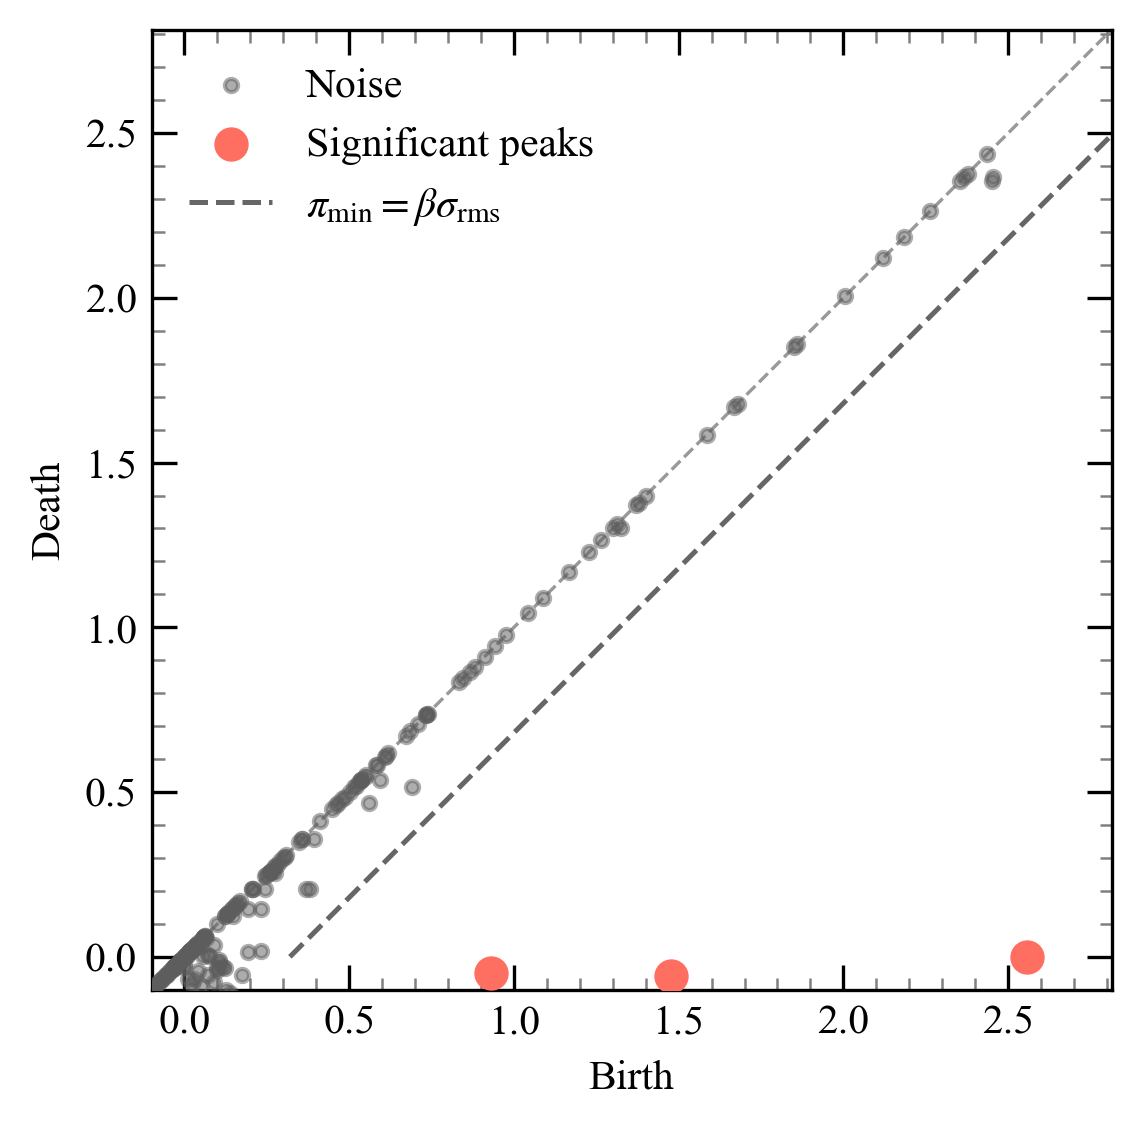
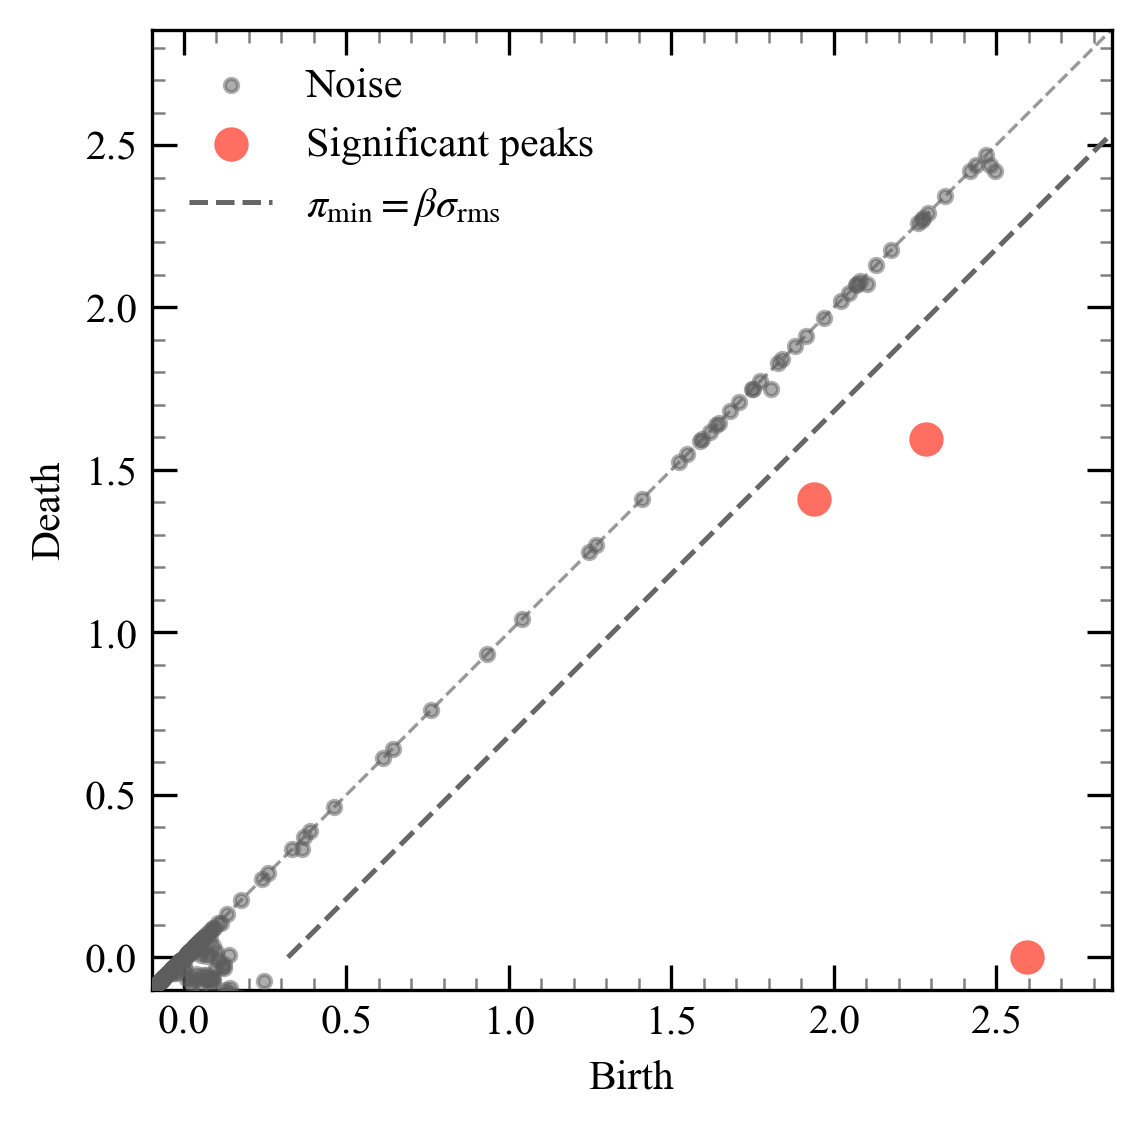
fix: updated peak detection description

diff --git a/packages/pre-print/ms.tex b/packages/pre-print/ms.tex
@@ -1,5 +1,5 @@
 % ============================================================================
-%  Persistent Homology for Parameter-Free Spectral Line Decomposition
+%  Persistent Homology for Parameter-Free Radio Spectral Line Decomposition
 %  AASTeX v6.3.1 — ApJ pre-print
 % ============================================================================
 \documentclass[twocolumn,twocolappendix]{aastex631}
@@ -22,13 +22,13 @@
 \newcommand{\aicc}{\mathrm{AICc}}
 
 % --- Metadata ---------------------------------------------------------------
-\shorttitle{Persistent Homology for Spectral Line Decomposition}
+\shorttitle{Persistent Homology for Radio Spectral Line Decomposition}
 \shortauthors{Vera-Ciro}
 
 % ============================================================================
 \begin{document}
 
-\title{Persistent Homology for Parameter-Free Spectral Line Decomposition}
+\title{Persistent Homology for Parameter-Free Radio Spectral Line Decomposition}
 
 \author{Carlos Vera-Ciro}
 \affiliation{Independent Researcher}
@@ -109,10 +109,14 @@ remains relatively niche in astronomy, with representative examples in
 cosmic-web topology \citep{Xu2019} and cosmic-shear statistics
 \citep{Heydenreich2022}; closely related structure-finding tools such as
 \textsc{SUBFIND} \citep{Springel2001} have long been standard in simulations.
+The most direct precedent is \citet{Shaw2025}, who use persistent homology
+for source detection and deblending in 2D astronomical images.
 To the best of my knowledge, this is the first application
-of persistent homology to spectral line decomposition.  The algorithm has a
+of persistent homology to 1D spectral line decomposition.  The algorithm has a
 single free parameter~$\beta$ (the persistence threshold in units of noise),
-requires no expensive training, and runs in $O(n \log n)$ time.  It is shown that it
+requires no expensive training, and runs in $O(n \log n)$ time.  \phspectra\
+detects emission peaks only; absorption features can be recovered by
+inverting the spectrum and applying the same procedure.  It is shown that it
 achieves high accuracy on synthetic data while matching or exceeding
 \gausspyp\ on real GRS spectra without training.  The method is presented in
 \S\ref{sec:method}, evaluated on synthetic and real ${}^{13}$CO spectra in
@@ -131,14 +135,19 @@ achieves high accuracy on synthetic data while matching or exceeding
   \caption{%
     Intuition for the peak-ranking step that underpins the decomposition.  The
     descending water-level interpretation of 0-dimensional persistent
-    homology is applied to a synthetic three-peak spectrum.  As the threshold
-    $t$ (dashed line) decreases, connected components are born at local maxima
-    and die when they merge into an older component.  Red dots mark peak births;
-    annotations show the final persistence $\pi = b - d$.  \emph{Top left}:
-    $t$ above all peaks (empty upper-level set).  \emph{Top right}: peak~A
-    ($\pi = 2.58$) is born as the global maximum.  \emph{Bottom left}: peak~B
-    ($\pi = 1.20$) appears as a second island.  \emph{Bottom right}: peak~C
-    ($\pi = 0.73$) dies when its island merges with~A's.
+    homology is applied to a synthetic nested spectrum: a broad parent with
+    two narrow children embedded on its flanks, representing the
+    blended-line case typical of radio spectra.  As the threshold $t$
+    (dashed line) decreases, connected components are born at local maxima
+    and die when they merge into an older component.  Red dots mark peak
+    births; annotations show the final persistence $\pi = b - d$.
+    \emph{Top left}: $t$ above all peaks (empty upper-level set).
+    \emph{Top right}: the broad parent ($\pi = 2.60$) is born as the global
+    maximum.  \emph{Bottom left}: both children ($\pi = 0.69$ at channel~82
+    and $\pi = 0.53$ at channel~118) appear as sub-islands sitting inside
+    the parent's territory.  \emph{Bottom right}: the higher-saddle child
+    (channel~82) merges back into the parent and dies; the other child
+    remains as a separate island.
     \label{fig:waterlevel}}
 \end{figure*}
 
@@ -221,15 +230,22 @@ amplitudes and widths.  A faint broad component and a bright narrow component
 are treated on equal footing; no special tuning is required to accommodate
 both.
 
-Figure~\ref{fig:waterlevel} uses the descending water-level interpretation on
-a synthetic three-peak spectrum.  As the water level (threshold) drops past
-each local maximum, a new connected component (``island'') is born; when two
-islands merge, the younger one dies and its persistence is recorded.  The
-three real peaks have persistence values of $\pi = 2.58$, $1.20$, and $0.73$
---- well separated from the near-zero persistence of noise fluctuations.  In
-practice these values are compared against the minimum persistence
-$\pmin = \beta\,\srms$: peaks with $\pi > \pmin$ are kept as Gaussian
-candidates, while lower-persistence features are rejected as noise.
+Figure~\ref{fig:waterlevel} uses the descending water-level interpretation
+on a synthetic nested spectrum: a broad parent with two narrow children
+embedded on its flanks, representing the blended-line case typical of radio
+spectra.  As the water level drops past the parent's peak, a single broad
+island is born; each child subsequently crosses the water level and appears
+as a sub-island sitting topologically inside the parent's territory.  When
+the water reaches the saddle separating a child from the parent, the two
+islands merge and the younger component --- the child --- dies at the
+saddle value.  Its persistence $\pi = b - d$ is the height drop between the
+child's local maximum and that saddle, so a narrow child sitting on top of
+a broad parent receives its own birth--death pair and is ranked against the
+same $\pmin$ cut as any isolated peak; no explicit deblending step is
+required.  The three real peaks in the figure have persistence values
+$\pi = 2.60$, $0.69$, and $0.53$, well above the near-zero persistence of
+noise fluctuations and above the default $\pmin = \beta\,\srms$ cut with
+$\beta = 3.5$, so all three are kept as Gaussian candidates.
 
 % ---------------------------------------------------------------------------
 % §2.2  From persistence to Gaussian candidates
@@ -246,6 +262,13 @@ final RMS is computed as $\srms^2 = \sum_i f_i^2/N_{\mathrm{sur}}$, where the su
 runs over the $N_{\mathrm{sur}}$ surviving channels.  This procedure avoids biasing the noise estimate with
 real emission and provides the noise scale used to set the persistence
 threshold $\pmin = \beta\,\srms$.
+
+The upper-level set formulation assumes a flat, baseline-subtracted
+spectrum: a sloped or broken continuum would shift raw peak heights and
+saddles non-uniformly and bias the persistence ranking.  Radio spectral
+lines typically sit on a flat baseline after standard calibration, so this
+is automatic in the intended use case; spectra with a non-negligible
+continuum component should have it subtracted prior to running \phspectra.
 
 Each peak surviving this threshold becomes an initial Gaussian guess.  The
 amplitude is taken directly from the peak height, $a_0 = f(\mathrm{index})$,

diff --git a/packages/benchmarks/src/benchmarks/commands/persistence_plot.py b/packages/benchmarks/src/benchmarks/commands/persistence_plot.py
@@ -36,10 +36,14 @@ class PersistenceEvent:
 
 
 def _synthetic_signal(n: int = 200) -> npt.NDArray[np.float64]:
-    """Build a synthetic three-peak signal with additive Gaussian noise.
+    """Build a synthetic nested-peak signal with additive Gaussian noise.
 
-    The signal contains three Gaussians (amplitudes 2.5, 1.4, 0.7) at
-    channels 60, 100, 140, plus i.i.d. noise with sigma = 0.08.
+    The signal contains a broad parent Gaussian (amplitude 2.5, sigma 12
+    at channel 100) and two narrow children (amplitudes 1.5 and 1.0,
+    sigma 2.5) sitting on its flanks at channels 82 and 118.  Both
+    children survive the default persistence cut and illustrate the
+    embedded / broad-plus-narrow superposition cases.  Additive
+    i.i.d. Gaussian noise has sigma = 0.08.
 
     Parameters
     ----------
@@ -53,9 +57,9 @@ def _synthetic_signal(n: int = 200) -> npt.NDArray[np.float64]:
     """
     x = np.arange(n, dtype=np.float64)
     signal = (
-        2.5 * np.exp(-0.5 * ((x - 60.0) / 8.0) ** 2)
-        + 1.4 * np.exp(-0.5 * ((x - 100.0) / 5.0) ** 2)
-        + 0.7 * np.exp(-0.5 * ((x - 140.0) / 10.0) ** 2)
+        2.5 * np.exp(-0.5 * ((x - 100.0) / 12.0) ** 2)
+        + 1.5 * np.exp(-0.5 * ((x - 82.0) / 2.5) ** 2)
+        + 1.0 * np.exp(-0.5 * ((x - 118.0) / 2.5) ** 2)
     )
     rng = np.random.default_rng(42)
     return signal + rng.normal(0, 0.08, n)
@@ -150,9 +154,11 @@ def _plot_water_levels(
 ) -> Figure:
     """Build the four-panel descending water-level illustration.
 
-    Each panel shows the signal with a horizontal water level at a
-    different threshold.  Born peaks are marked with red dots and
-    annotated with their final persistence.
+    The signal is assumed to be a broad parent with two embedded narrow
+    children.  Panels show the descending water level at four
+    thresholds: (1) above all peaks, (2) the parent born as the global
+    maximum, (3) both children born as sub-islands inside the parent's
+    island, (4) the first child merging back into the parent.
 
     Parameters
     ----------
@@ -161,24 +167,33 @@ def _plot_water_levels(
     signal : npt.NDArray[np.float64]
         1-D spectrum values.
     top_peaks : list[PersistenceEvent]
-        The three most persistent peaks, sorted by channel index.
+        The three most persistent events, sorted by **persistence**
+        descending.  Element 0 is the parent (global maximum) and
+        elements 1 and 2 are the two children.
 
     Returns
     -------
     Figure
         A 2x2 matplotlib figure.
     """
+    parent = top_peaks[0]
+    children = top_peaks[1:]
+    # The child with the higher saddle (death) merges first as the water
+    # descends, so its merge is the event shown in panel 4.
+    first_to_merge = max(children, key=lambda e: e.death)
+    lower_child_birth = min(c.birth for c in children)
+
     levels = [
-        top_peaks[0].birth + 0.15,
-        top_peaks[0].birth - 0.05,
-        top_peaks[1].birth - 0.05,
-        top_peaks[2].death - 0.10,
+        parent.birth + 0.15,
+        parent.birth - 0.05,
+        lower_child_birth - 0.05,
+        first_to_merge.death - 0.10,
     ]
     stage_labels = [
         "Water above all peaks",
-        f"Peak A born (channel {top_peaks[0].index})",
-        f"Peak B born (channel {top_peaks[1].index})",
-        "Peak C merges into A. C dies",
+        f"Parent born (channel {parent.index})",
+        "Both children born inside parent",
+        f"Child at channel {first_to_merge.index} merges into parent",
     ]
 
     fig: Figure
@@ -309,9 +324,12 @@ def persistence_plot() -> None:
     x = np.arange(len(signal), dtype=np.float64)
     events = _run_persistence(signal)
 
-    top_peaks = sorted(events[:3], key=lambda e: e.index)
+    top_peaks = events[:3]
 
-    console.print("Synthetic signal: 3 Gaussians + noise (sigma=0.08)", style="bold cyan")
+    console.print(
+        "Synthetic signal: broad parent + 2 narrow children + noise (sigma=0.08)",
+        style="bold cyan",
+    )
     console.print(f"  {len(events)} persistence events, top 3:")
     for e in top_peaks:
         console.print(
